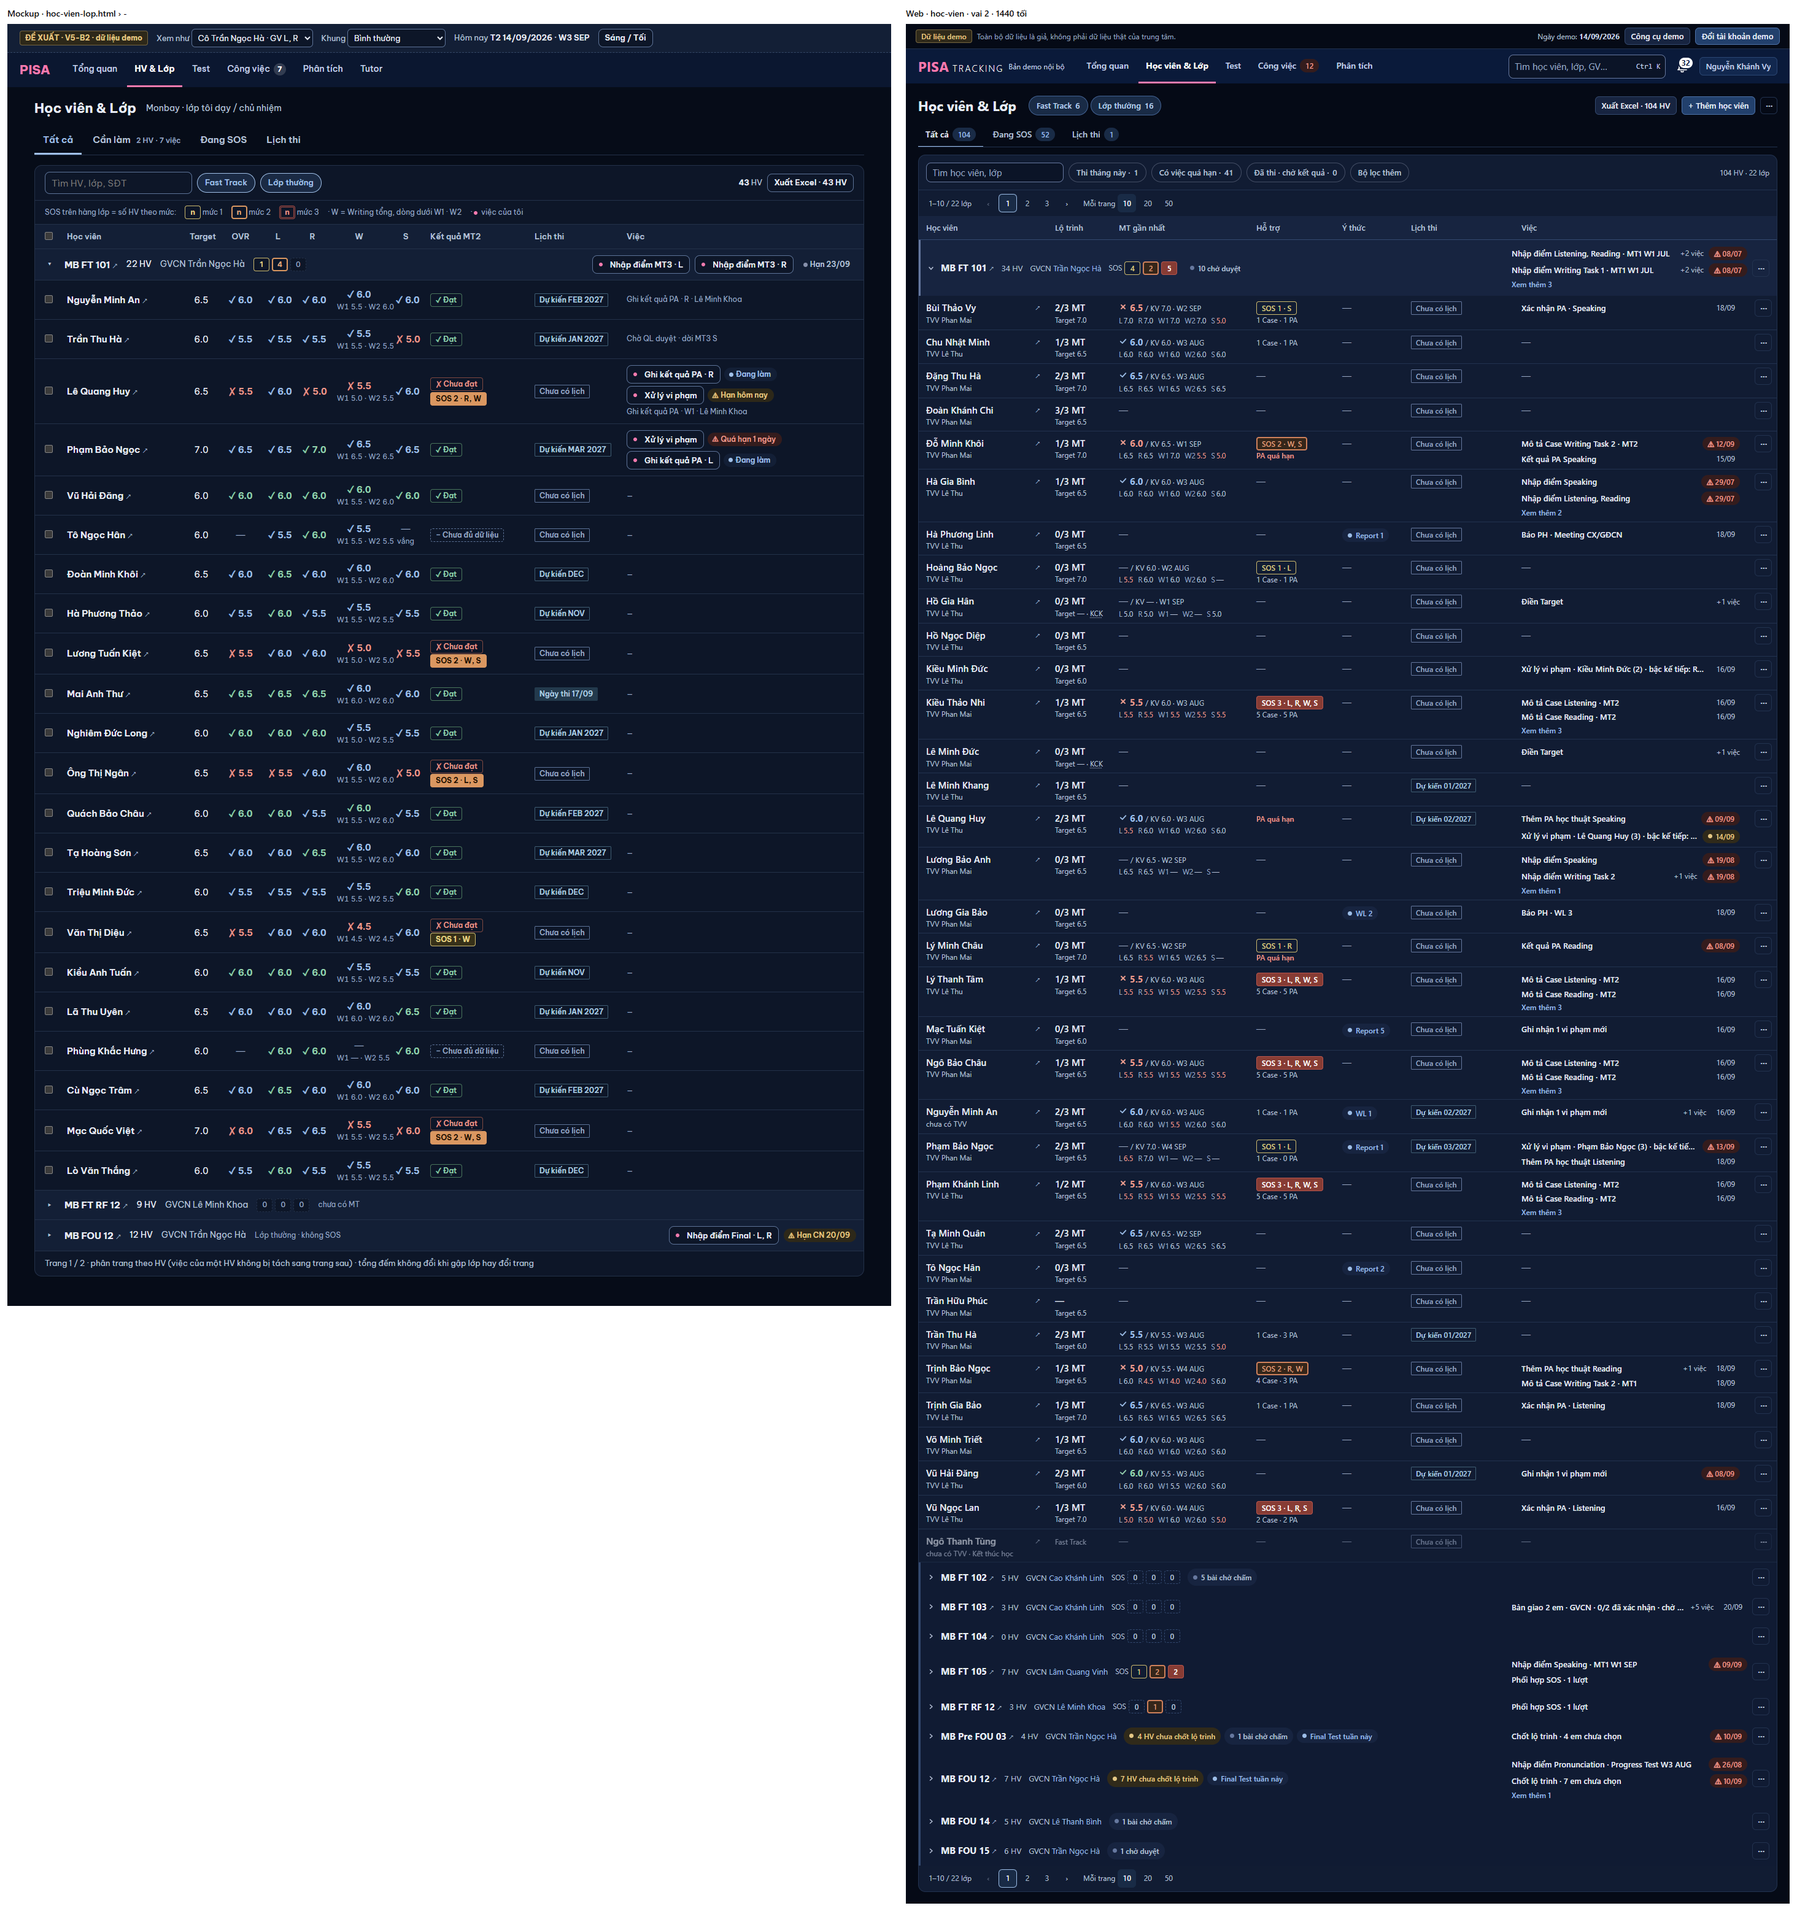
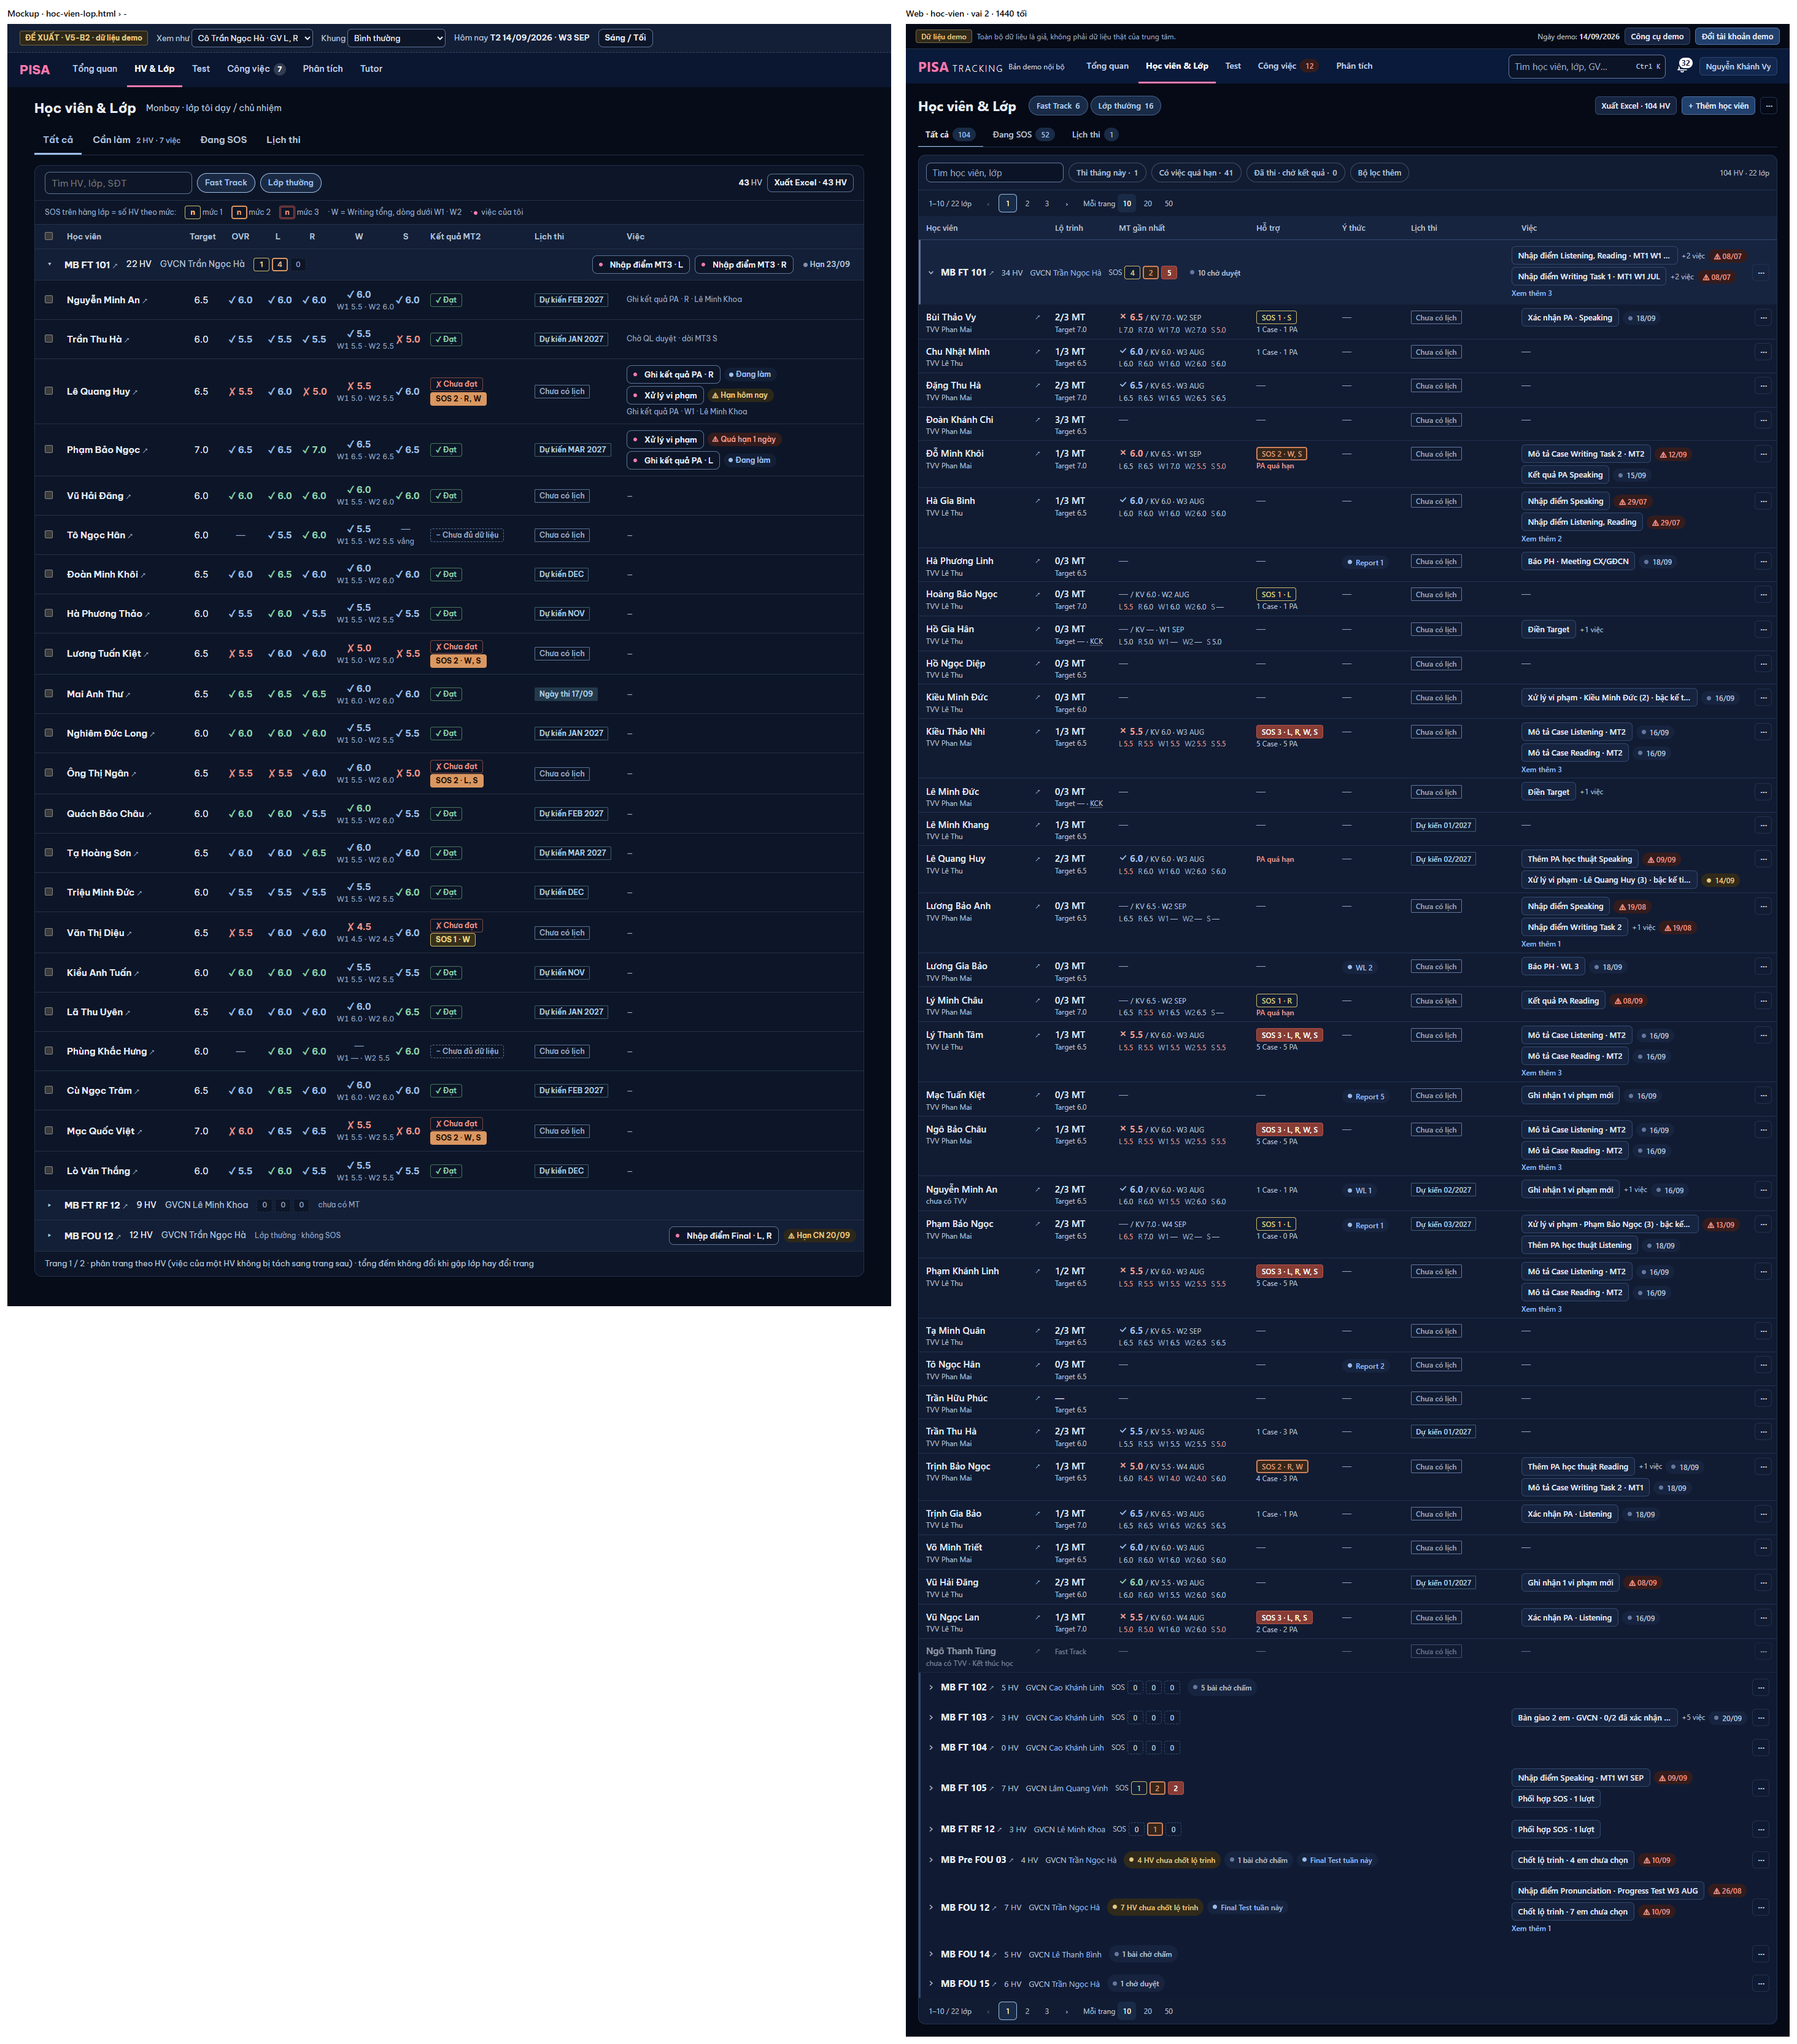
MAU-WEB-2: cột Việc HV & Lớp = nút viền nhỏ như mockup V5 + hạn luôn là chip tiến độ (chủ SP 27/10)

diff --git a/web/src/modules/students/DanhSachHvLop.tsx b/web/src/modules/students/DanhSachHvLop.tsx
@@ -66,15 +66,13 @@ function TenEm({ h, ev, ds }: { h: HvGon; ev?: EmVai; ds: NguCanhDs }) {
   );
 }
 
-/** Hạn của một việc: quá hạn / hôm nay = chip có ⚠ (không chỉ màu), còn lại chữ phụ `dd/mm`. */
+/** Hạn của một việc = chip tiến độ (mockup V5 `.bd-td`): quá hạn ⚠ · hôm nay `soon` · còn lại xám chờ. */
 function HanViec({ x }: { x: ViecEm }) {
   const { homNay } = useNgayNghiepVu();
   if (!x.han) return null;
   const ngay = shortDate(x.han, homNay);
-  /* Quá hạn = badge tiến độ `late` (Nhan tự thêm ⚠); hôm nay = `soon`; còn lại chữ phụ. */
   if (x.quaHan) return <span className="shrink-0"><span className="sr-only">{t('Quá hạn')} </span><Nhan tone="late">{ngay}</Nhan></span>;
-  if (x.it.urgency === 'today') return <span className="shrink-0"><Nhan tone="soon">{ngay}</Nhan></span>;
-  return <span className="shrink-0 px-2 text-xs tabular-nums text-dim">{ngay}</span>;
+  return <span className="shrink-0 tabular-nums"><Nhan tone={x.it.urgency === 'today' ? 'soon' : 'muted'}>{ngay}</Nhan></span>;
 }
 
 /**
@@ -92,10 +90,10 @@ export function OViec({ v, onMo, gopMon }: { v: ViecEm[] | undefined; onMo: (it:
   return (
     <span className="block min-w-0 space-y-1 max-sm:space-y-0">
       {hien.map(({ dau: x, them }) => (
-        <span key={x.it.key} className="flex min-w-0 items-center gap-2">
-          {/* D10 (PTA 27/10): tên việc màu chữ thường — chỉ rê / focus mới xanh + gạch; trạng thái nằm ở chip hạn. */}
-          <button type="button" className="min-w-0 flex-1 truncate appearance-none border-0 bg-transparent p-0 text-left text-[13px] font-medium text-[color:var(--text)] underline-offset-2 hover:text-[color:var(--accent)] hover:underline focus-visible:text-[color:var(--accent)] focus-visible:underline max-sm:min-h-[44px]"
-            title={dich(x.chu)} onClick={() => onMo(x.it)}>{chuCua(x)}</button>
+        <span key={x.it.key} className="flex min-w-0 items-center gap-1.5">
+          {/* D10 (chủ SP 27/10, mockup V5 `.viec-o .nut`): việc = nút viền nhỏ màu chữ thường (không link xanh) · chip hạn ngay sau; trạng thái nằm ở chip. */}
+          <button type="button" className="btn btn-sm h-[30px] min-w-0 max-w-full shrink justify-start max-sm:h-[36px]"
+            title={dich(x.chu)} onClick={() => onMo(x.it)}><span className="truncate">{chuCua(x)}</span></button>
           {them > 0 && <span className="shrink-0 text-xs text-dim">{t('+{n} việc', { n: them })}</span>}
           <HanViec x={x} />
         </span>

diff --git a/docs/anh/mau-web-2/khop-khac.md b/docs/anh/mau-web-2/khop-khac.md
@@ -30,7 +30,7 @@ Tổng quan còn cao hơn mockup vì có nhiều dòng hơn (ô số 700, tên l
 | Mã lớp mở hồ sơ (HV & Lớp, dải lớp, panel Ý thức, Phân tích Ý thức) | link xanh đậm / gạch chấm | `.ten-ho-so` (màu chữ, ↗, rê mới xanh) như mockup | `StudentsPage`, `PanelViec`, `YThucPhoiHop` |
 | Chờ bạn duyệt (Tổng quan) | cả dòng 600 | loại việc 500 · tên HV 600 | `TongQuanV5.tsx` |
 | Ô lộ trình "2/5 MT" (HV & Lớp) | 700 | 500 | `DanhSachHvLop.tsx` |
-| Tên việc ở cột Việc (HV & Lớp, dải lớp) — PTA 27/10 | link xanh mỗi dòng | màu chữ 500, rê / focus mới xanh + gạch; trạng thái ở chip hạn; "Xem thêm n" 600 → 500 | `DanhSachHvLop.tsx` (`OViec`) |
+| Tên việc ở cột Việc (HV & Lớp, dải lớp) — PTA 27/10 | link xanh mỗi dòng, hạn xa là chữ xám trần | nút viền nhỏ màu chữ 500 như mockup `.viec-o .nut` (chủ SP 27/10: "các nút ở phần việc rất ok"); hạn luôn là chip tiến độ (quá hạn ⚠ · hôm nay vàng · còn lại xám) ngay sau nút; "Xem thêm n" 600 → 500 | `DanhSachHvLop.tsx` (`OViec`, `HanViec`) |
 | Số Thi thật trên chart D | 800 | 700 | `BieuDoD.tsx` |
 
 GIỮ (khớp mockup / luật đã khoá): badge 12 / 600 (V4), ô số `OSo` 700 gạch chân (G6), đầu cột 13 / 600, tên em 15 / 600 và tên việc 15 / 500 (V18),
